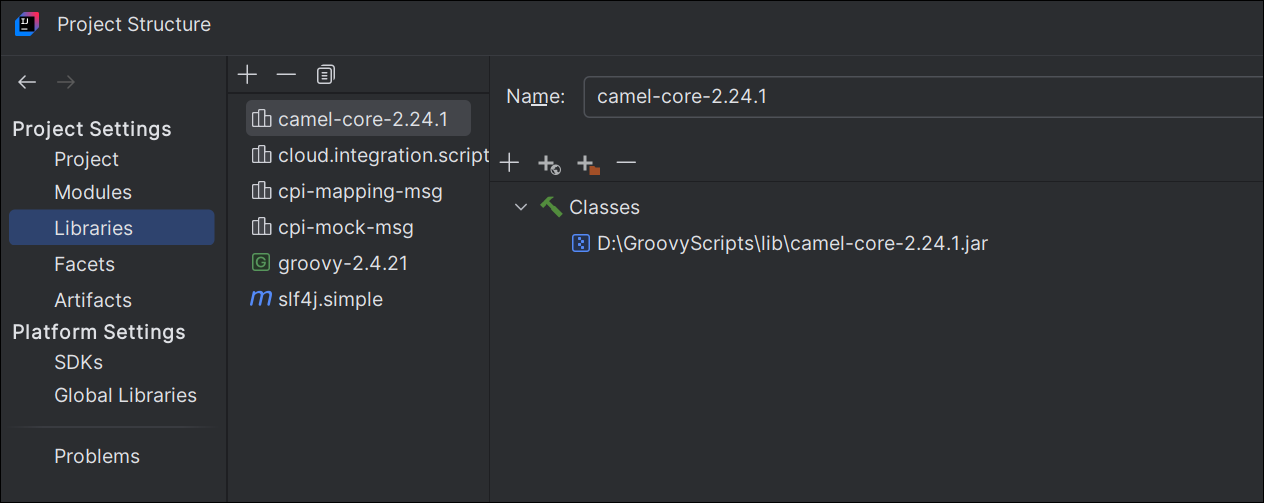
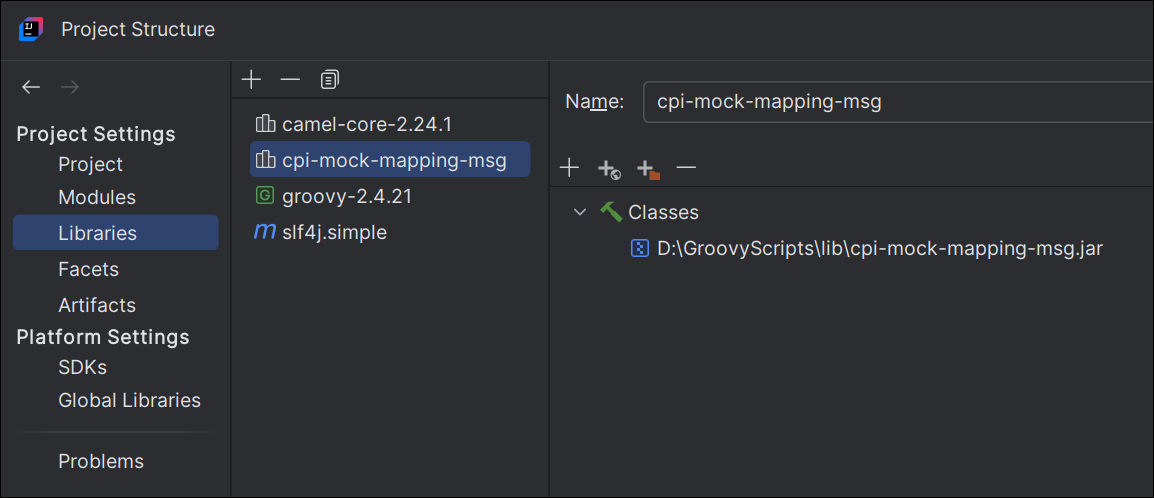
Update Singe mock file

diff --git a/README.md b/README.md
@@ -4,6 +4,7 @@
    * [Download IntelliJ IDEA and Groovy Script](#download-intellij-idea-and-groovy-script)
    * [Setup IntelliJ IDEA for Creating Groovy Script projects](#setup-intellij-idea-for-creating-groovy-script-projects)
    * [Create Code Templates](#create-code-templates)
+      + [Groovy Script CPI SAP](#groovy-script-cpi-sap)
       + [Groovy Script for CPI](#groovy-script-for-cpi)
       + [Groovy Script for Testing CPI Script](#groovy-script-for-testing-cpi-script)
       + [Groovy Script for Testing CPI Script and loading ValueMapping values from a file](#groovy-script-for-testing-cpi-script-and-loading-valuemapping-values-from-a-file)
@@ -12,7 +13,7 @@
       + [With inline value mapping values](#with-inline-value-mapping-values)
       + [With value mapping values from file](#with-value-mapping-values-from-file)
    * [Basic Project Layout](#basic-project-layout)
-   * [Info about creation of Mapping.jar](#info-about-creation-of-mappingjar)
+   * [Resources](#resources)
 
 <!-- TOC end -->
 
@@ -55,9 +56,8 @@
 * Configure the Libraries in the Project Structure: choose: **File - Project Structure**
   * Download the three jar files from this Github files folder and put them in the **lib** folder of this project.
   * One by One add the following Java files to the project
-    * camel-core-2.24.1
-    * cloud.integration.script.apis-2.7.1.jar
-    * cpi-mock-msg.jar
+    * camel-core-2.24.1.jar
+    * cpi-mock-mapping.msg.jar
     * cpi-mapping-msg.jar
   * Add the following Maven file to the project
     * slf4j.simple:2.0.16 (latest version)
@@ -67,6 +67,39 @@
 
 <!-- TOC --><a name="create-code-templates"></a>
 ## Create Code Templates
+<!-- TOC --><a name="groovy-script-cpi-sap"></a>
+### Groovy Script CPI SAP
+* Create a **Groovy Script like standard CPI SAP** Code Template
+  * In the menu bar, choose **File - Settings**
+  * Then under **Editor - File and Code Templates** use the (+) Sign and add the script: **CPI Script SAP**
+  * and paste this code
+``` Groovy Script
+/* Refer the link below to learn more about the use cases of script.
+https://help.sap.com/viewer/368c481cd6954bdfa5d0435479fd4eaf/Cloud/en-US/148851bf8192412cba1f9d2c17f4bd25.html
+
+If you want to know more about the SCRIPT APIs, refer the link below
+https://help.sap.com/doc/a56f52e1a58e4e2bac7f7adbf45b2e26/Cloud/en-US/index.html */
+import com.sap.gateway.ip.core.customdev.util.Message;
+import java.util.HashMap;
+
+def Message processData(Message message) {
+    //Body
+    def body = message.getBody();
+/*To set the body, you can use the following method. Refer SCRIPT APIs document for more detail*/
+    //message.setBody(body + " Body is modified");
+    //Headers
+    def headers = message.getHeaders();
+    def value = headers.get("oldHeader");
+    message.setHeader("oldHeader", value + " modified");
+    message.setHeader("newHeader", "newHeader");
+    //Properties
+    def properties = message.getProperties();
+    value = properties.get("oldProperty");
+    message.setProperty("oldProperty", value + " modified");
+    message.setProperty("newProperty", "newProperty");
+    return message;
+}
+```
 <!-- TOC --><a name="groovy-script-for-cpi"></a>
 ### Groovy Script for CPI
 * Create a **Groovy Script for CPI** Code Template
@@ -200,6 +233,7 @@ msg.getProperties().each { key, value -> println("\$key = \$value") }
 ```
 import com.sap.gateway.ip.core.customdev.util.Message
 import com.sap.it.api.mapping.ValueMappingApi
+import com.themuth.customdev.util.Mapping
 import org.apache.camel.CamelContext
 import org.apache.camel.Exchange
 import org.apache.camel.impl.DefaultCamelContext
@@ -220,8 +254,8 @@ def body = new File('../../data/in/xxx.xml')
 exchange.getIn().setBody(body)
 msg.setBody(exchange.getIn().getBody())
 // Initialize ValueMapping with input file
-ValueMappingApi vmapi = ValueMappingApi.getInstance();
-loadValueMappings('../../data/ValueMappings/Example/value_mapping.xml',true);
+Mapping mapping = new Mapping()
+mapping.loadValueMappings('../../data/ValueMappings/Example/value_mapping.xml', true);
 
 // Set exchange headers
 msg.setHeader("oldHeader", "oldHeaderValue")
@@ -244,34 +278,6 @@ println('Headers:')
 msg.getHeaders().each { key, value -> println("\$key = \$value") }
 println('Properties:')
 msg.getProperties().each { key, value -> println("\$key = \$value") }
-
-
-
-
-def loadValueMappings(iFilename, iShow = false){
-    ValueMappingApi vmapi = ValueMappingApi.getInstance();
-    def vMappingFile = new File(iFilename);
-    def vMapping = new XmlSlurper().parse(vMappingFile)
-    def vGroups = vMapping.children()
-    println("ValueMapping values from file: " + iFilename)
-    vGroups.each { group ->
-        if (iShow == true) {
-            println(group.entry[0].agency.text() + " " +
-                    group.entry[0].schema.text() + " " +
-                    group.entry[0].value.text() + " " +
-                    group.entry[1].agency.text() + " " +
-                    group.entry[1].schema.text() + " " +
-                    group.entry[1].value.text())
-        }
-        vmapi.addEntry(group.entry[0].agency.text(),
-                group.entry[0].schema.text(),
-                group.entry[0].value.text(),
-                group.entry[1].agency.text(),
-                group.entry[1].schema.text(),
-                group.entry[1].value.text())
-    }
-}
-
 ```
 
 <!-- TOC --><a name="create-test-examples"></a>
@@ -338,6 +344,7 @@ In this test example we are mocking the Value Mappings in the test script:
 ## Basic Project Layout
 ![ProjectLayout](images/ProjectLayout.png)
 
-<!-- TOC --><a name="info-about-creation-of-mappingjar"></a>
-## Info about creation of Mapping.jar
-[https://github.com/equaliseit/sap-cpi-mocks/tree/main](https://github.com/equaliseit/sap-cpi-mocks/tree/main)
+<!-- TOC --><a name="resources"></a>
+## Resources
+* [https://github.com/NL4BLeonBoeijen/sap-cpi-mocks](https://github.com/NL4BLeonBoeijen/sap-cpi-mocks)
+* [https://github.com/equaliseit/sap-cpi-mocks/tree/main](https://github.com/equaliseit/sap-cpi-mocks/tree/main)

diff --git a/README - No TOC.md b/README - No TOC.md
@@ -34,9 +34,8 @@
 * Configure the Libraries in the Project Structure: choose: **File - Project Structure**
   * Download the three jar files from this Github files folder and put them in the **lib** folder of this project.
   * One by One add the following Java files to the project
-    * camel-core-2.24.1
-    * cloud.integration.script.apis-2.7.1.jar
-    * cpi-mock-msg.jar
+    * camel-core-2.24.1.jar
+    * cpi-mock-mapping.msg.jar
     * cpi-mapping-msg.jar
   * Add the following Maven file to the project
     * slf4j.simple:2.0.16 (latest version)
@@ -45,6 +44,38 @@
 * Restart IDEA
 
 ## Create Code Templates
+### Groovy Script CPI SAP
+* Create a **Groovy Script like standard CPI SAP** Code Template
+  * In the menu bar, choose **File - Settings**
+  * Then under **Editor - File and Code Templates** use the (+) Sign and add the script: **CPI Script SAP**
+  * and paste this code
+``` Groovy Script
+/* Refer the link below to learn more about the use cases of script.
+https://help.sap.com/viewer/368c481cd6954bdfa5d0435479fd4eaf/Cloud/en-US/148851bf8192412cba1f9d2c17f4bd25.html
+
+If you want to know more about the SCRIPT APIs, refer the link below
+https://help.sap.com/doc/a56f52e1a58e4e2bac7f7adbf45b2e26/Cloud/en-US/index.html */
+import com.sap.gateway.ip.core.customdev.util.Message;
+import java.util.HashMap;
+
+def Message processData(Message message) {
+    //Body
+    def body = message.getBody();
+/*To set the body, you can use the following method. Refer SCRIPT APIs document for more detail*/
+    //message.setBody(body + " Body is modified");
+    //Headers
+    def headers = message.getHeaders();
+    def value = headers.get("oldHeader");
+    message.setHeader("oldHeader", value + " modified");
+    message.setHeader("newHeader", "newHeader");
+    //Properties
+    def properties = message.getProperties();
+    value = properties.get("oldProperty");
+    message.setProperty("oldProperty", value + " modified");
+    message.setProperty("newProperty", "newProperty");
+    return message;
+}
+```
 ### Groovy Script for CPI
 * Create a **Groovy Script for CPI** Code Template
   * In the menu bar, choose **File - Settings**
@@ -175,6 +206,7 @@ msg.getProperties().each { key, value -> println("\$key = \$value") }
 ```
 import com.sap.gateway.ip.core.customdev.util.Message
 import com.sap.it.api.mapping.ValueMappingApi
+import com.themuth.customdev.util.Mapping
 import org.apache.camel.CamelContext
 import org.apache.camel.Exchange
 import org.apache.camel.impl.DefaultCamelContext
@@ -195,8 +227,8 @@ def body = new File('../../data/in/xxx.xml')
 exchange.getIn().setBody(body)
 msg.setBody(exchange.getIn().getBody())
 // Initialize ValueMapping with input file
-ValueMappingApi vmapi = ValueMappingApi.getInstance();
-loadValueMappings('../../data/ValueMappings/Example/value_mapping.xml',true);
+Mapping mapping = new Mapping()
+mapping.loadValueMappings('../../data/ValueMappings/Example/value_mapping.xml', true);
 
 // Set exchange headers
 msg.setHeader("oldHeader", "oldHeaderValue")
@@ -219,34 +251,6 @@ println('Headers:')
 msg.getHeaders().each { key, value -> println("\$key = \$value") }
 println('Properties:')
 msg.getProperties().each { key, value -> println("\$key = \$value") }
-
-
-
-
-def loadValueMappings(iFilename, iShow = false){
-    ValueMappingApi vmapi = ValueMappingApi.getInstance();
-    def vMappingFile = new File(iFilename);
-    def vMapping = new XmlSlurper().parse(vMappingFile)
-    def vGroups = vMapping.children()
-    println("ValueMapping values from file: " + iFilename)
-    vGroups.each { group ->
-        if (iShow == true) {
-            println(group.entry[0].agency.text() + " " +
-                    group.entry[0].schema.text() + " " +
-                    group.entry[0].value.text() + " " +
-                    group.entry[1].agency.text() + " " +
-                    group.entry[1].schema.text() + " " +
-                    group.entry[1].value.text())
-        }
-        vmapi.addEntry(group.entry[0].agency.text(),
-                group.entry[0].schema.text(),
-                group.entry[0].value.text(),
-                group.entry[1].agency.text(),
-                group.entry[1].schema.text(),
-                group.entry[1].value.text())
-    }
-}
-
 ```
 
 ## Create Test Examples
@@ -308,5 +312,6 @@ In this test example we are mocking the Value Mappings in the test script:
 ## Basic Project Layout
 ![ProjectLayout](images/ProjectLayout.png)
 
-## Info about creation of Mapping.jar
-[https://github.com/equaliseit/sap-cpi-mocks/tree/main](https://github.com/equaliseit/sap-cpi-mocks/tree/main)
+## Resources
+* [https://github.com/NL4BLeonBoeijen/sap-cpi-mocks](https://github.com/NL4BLeonBoeijen/sap-cpi-mocks)
+* [https://github.com/equaliseit/sap-cpi-mocks/tree/main](https://github.com/equaliseit/sap-cpi-mocks/tree/main)
